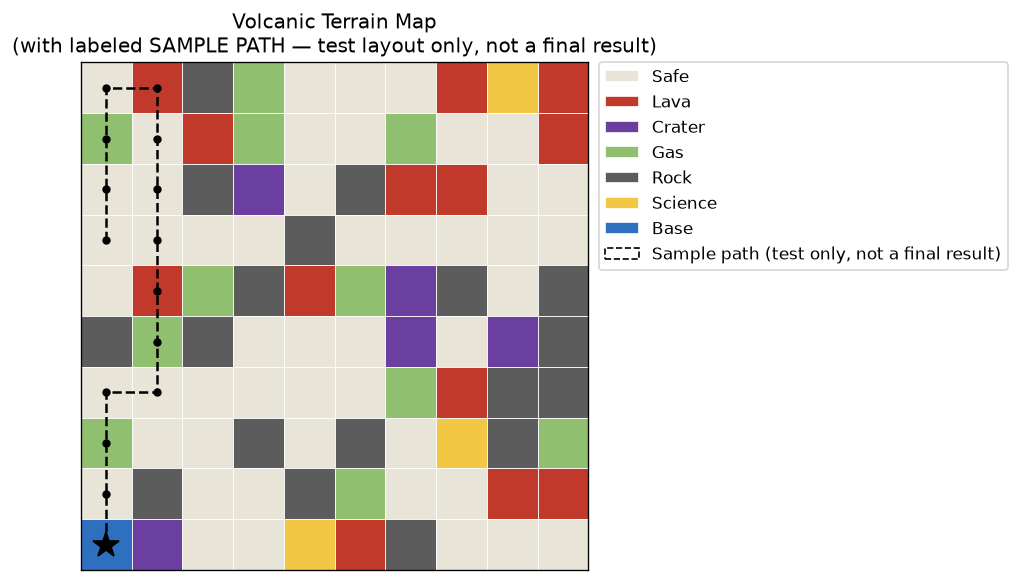
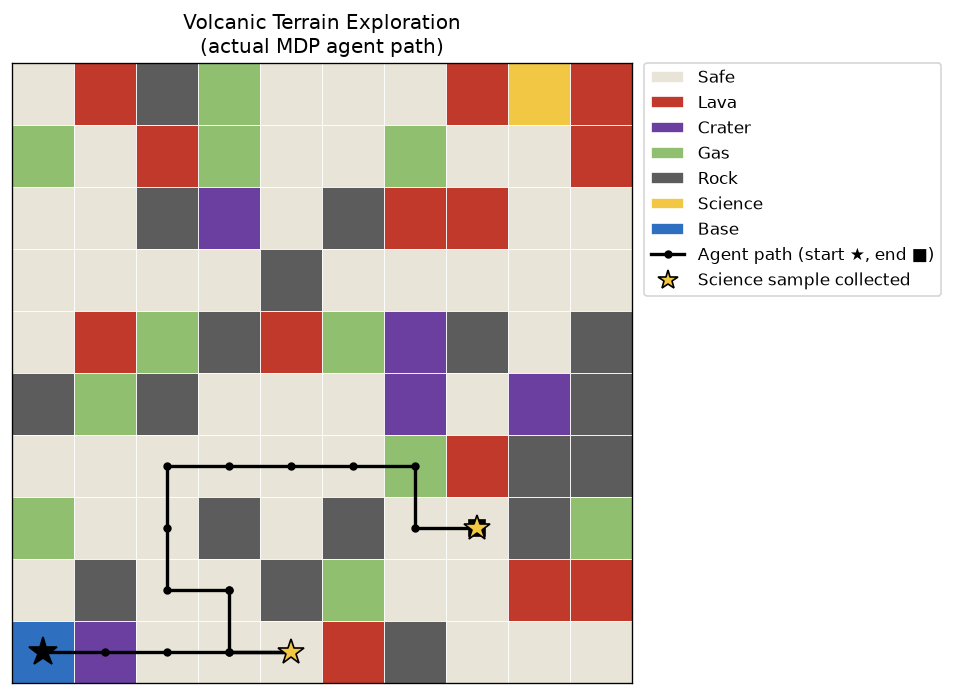
Render the real MDP agent path on the mission map
The exploration map previously drew a hardcoded sample path for layout
testing. visualization.py now runs the actual simulation, draws the
agent's real path from BASE, and marks the cells where science samples
were collected. The README image and caption are updated to match.

diff --git a/support/visualization.py b/support/visualization.py
@@ -1,9 +1,10 @@
 """Terrain and path visualization for the volcanic explorer project.
 
 This module draws the volcanic terrain grid with matplotlib and saves it as
-an image. For Update 1, only the terrain itself is guaranteed to be real; any
-path drawn on top is a labeled sample path for layout testing only, since
-Member 2's finished simulation path is not wired in yet.
+an image. It can render either a plain terrain map, a terrain map with a
+labeled sample path (kept for layout testing), or a full mission map showing
+the real path the MDP explorer agent took during a simulation, including the
+science cells where samples were collected.
 """
 
 import sys
@@ -20,6 +21,7 @@ import matplotlib
 
 matplotlib.use("Agg")  # save figures without needing a display
 import matplotlib.pyplot as plt
+from matplotlib.lines import Line2D
 from matplotlib.patches import Patch
 
 from support.terrain import BASE, CRATER, GAS, LAVA, ROCK, SAFE, SCIENCE, Terrain
@@ -75,8 +77,12 @@ def draw_sample_path(path: list[tuple[int, int]], terrain: Terrain, axis: plt.Ax
     axis.plot(xs[0], ys[0], marker="*", markersize=16, color="black", zorder=6)
 
 
-def build_legend_handles(include_sample_path: bool) -> list[Patch]:
-    """Build legend patches for every terrain type (and the sample path if drawn)."""
+def build_legend_handles(
+    include_sample_path: bool = False,
+    include_agent_path: bool = False,
+    include_collected_science: bool = False,
+) -> list:
+    """Build legend entries for the terrain types and any drawn overlays."""
     handles = [Patch(facecolor=CELL_COLORS[cell_type], edgecolor="white", label=CELL_LABELS[cell_type]) for cell_type in CELL_LABELS]
 
     if include_sample_path:
@@ -84,7 +90,77 @@ def build_legend_handles(include_sample_path: bool) -> list[Patch]:
             Patch(facecolor="none", edgecolor="black", linestyle="--", label="Sample path (test only, not a final result)")
         )
 
+    if include_agent_path:
+        handles.append(
+            Line2D([], [], color="black", linewidth=2.0, marker="o", markersize=4, label="Agent path (start ★, end ■)")
+        )
+
+    if include_collected_science:
+        handles.append(
+            Line2D([], [], color="none", marker="*", markersize=12, markerfacecolor="#f2c744", markeredgecolor="black", label="Science sample collected")
+        )
+
     return handles
+
+
+def draw_agent_path(path: list[tuple[int, int]], terrain: Terrain, axis: plt.Axes) -> None:
+    """Draw the real path taken by the explorer agent during a simulation."""
+    xs = [col + 0.5 for _row, col in path]
+    ys = [terrain.rows - 1 - row + 0.5 for row, _col in path]
+
+    axis.plot(xs, ys, color="black", linewidth=2.0, marker="o", markersize=4, zorder=5)
+    axis.plot(xs[0], ys[0], marker="*", markersize=18, color="black", zorder=6)
+    axis.plot(xs[-1], ys[-1], marker="s", markersize=10, color="black", zorder=6)
+
+
+def draw_collected_science(positions: list[tuple[int, int]], terrain: Terrain, axis: plt.Axes) -> None:
+    """Mark the cells where the agent collected a science sample."""
+    for row, col in positions:
+        axis.plot(
+            col + 0.5,
+            terrain.rows - 1 - row + 0.5,
+            marker="*",
+            markersize=16,
+            markerfacecolor="#f2c744",
+            markeredgecolor="black",
+            zorder=7,
+        )
+
+
+def render_mission_map(
+    terrain: Terrain,
+    path: list[tuple[int, int]],
+    collected_science: list[tuple[int, int]] | None = None,
+    output_path: str = DEFAULT_OUTPUT_PATH,
+    title: str = "Volcanic Terrain Exploration\n(actual MDP agent path)",
+) -> Path:
+    """Render the terrain with the agent's real simulation path and save it."""
+    figure, axis = plt.subplots(figsize=(8, 8))
+
+    draw_terrain(terrain, axis)
+    draw_agent_path(path, terrain, axis)
+
+    if collected_science:
+        draw_collected_science(collected_science, terrain, axis)
+
+    axis.set_title(title)
+    axis.legend(
+        handles=build_legend_handles(
+            include_agent_path=True,
+            include_collected_science=bool(collected_science),
+        ),
+        loc="upper left",
+        bbox_to_anchor=(1.02, 1.0),
+        borderaxespad=0,
+    )
+    figure.tight_layout()
+
+    resolved_path = _resolve_output_path(output_path)
+    resolved_path.parent.mkdir(parents=True, exist_ok=True)
+    figure.savefig(resolved_path, dpi=120, bbox_inches="tight")
+    plt.close(figure)
+
+    return resolved_path
 
 
 def make_sample_path(terrain: Terrain, max_length: int = 15) -> list[tuple[int, int]]:
@@ -138,16 +214,26 @@ def _resolve_output_path(path: str) -> Path:
 
 
 def main() -> None:
-    """Generate the Update 1 terrain map with a clearly labeled sample path."""
+    """Run a real simulation and render the mission map with the agent's path."""
+    from support.simulation import Simulation
+
     terrain = Terrain(seed=42)
     terrain.generate()
 
-    sample_path = make_sample_path(terrain)
-    output_path = render_terrain_map(terrain, path=sample_path)
+    simulation = Simulation(terrain, max_steps=100, coverage_target=0.60, seed=42)
+    summary = simulation.run()
+
+    output_path = render_mission_map(
+        terrain,
+        path=simulation.agent.path,
+        collected_science=simulation.agent.science_collected_positions,
+    )
 
     print(f"Terrain size: {terrain.rows}x{terrain.cols}")
-    print(f"Sample path length (test only): {len(sample_path)}")
-    print(f"Saved terrain map: {output_path}")
+    print(f"Agent path length: {len(simulation.agent.path)}")
+    print(f"Science samples collected: {summary['science_points_collected']}")
+    print(f"Survived: {summary['survived']}")
+    print(f"Saved mission map: {output_path}")
 
 
 if __name__ == "__main__":

diff --git a/README.md b/README.md
@@ -190,7 +190,7 @@ Update 1 code from all four members has been merged.
 </p>
 
 <p align="center">
-  <em>Update 1 test visualization of the volcanic terrain. The dashed route is labeled in the image as a sample path for layout testing, not a final autonomous-agent result.</em>
+  <em>Actual simulation result: the solid route is the real path taken by the MDP explorer agent (start ★ at BASE, end ■), and gold stars mark the cells where science samples were collected.</em>
 </p>
 
 ### Performance Comparison
